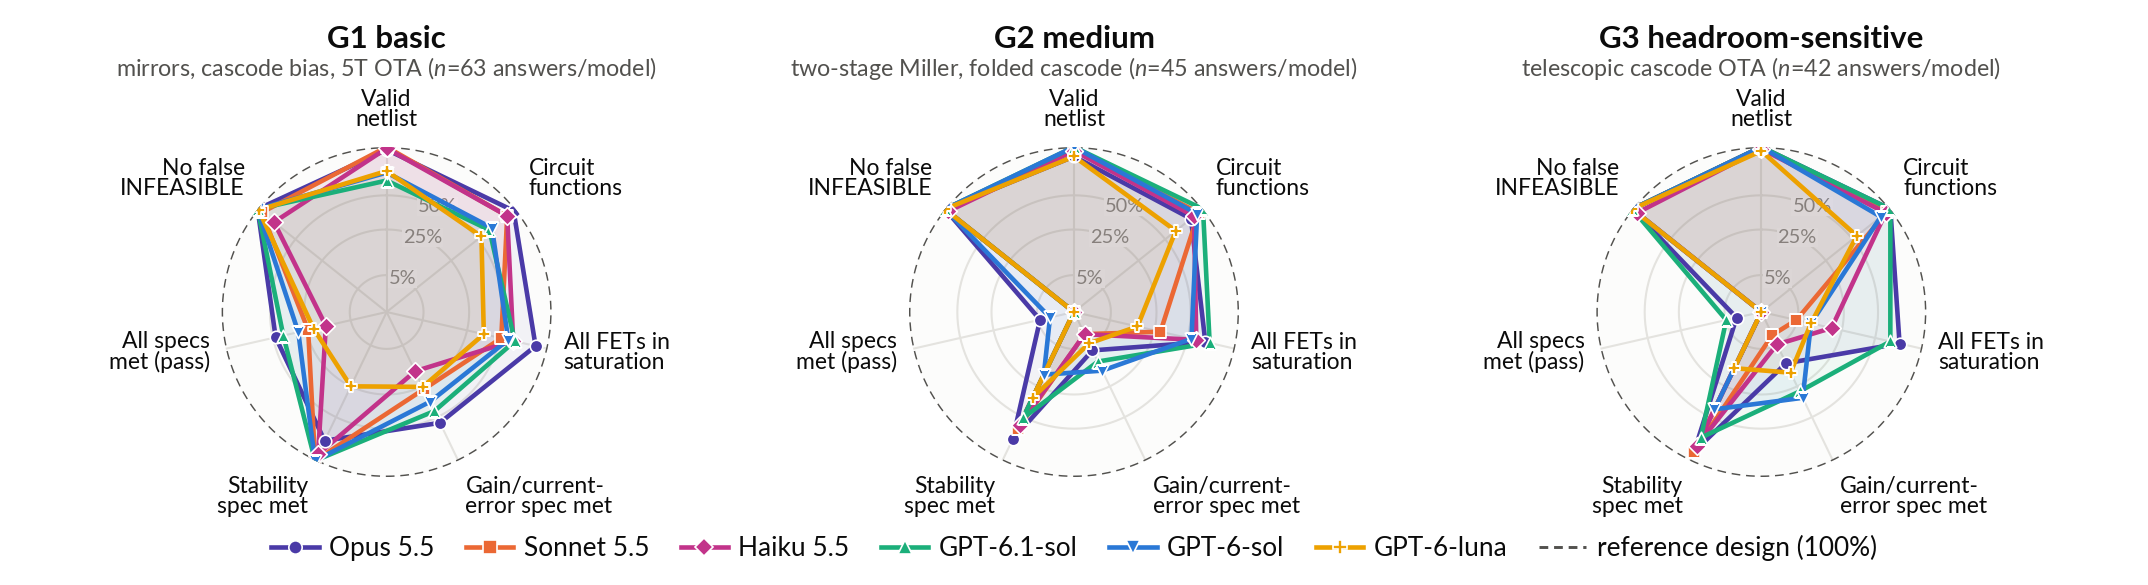
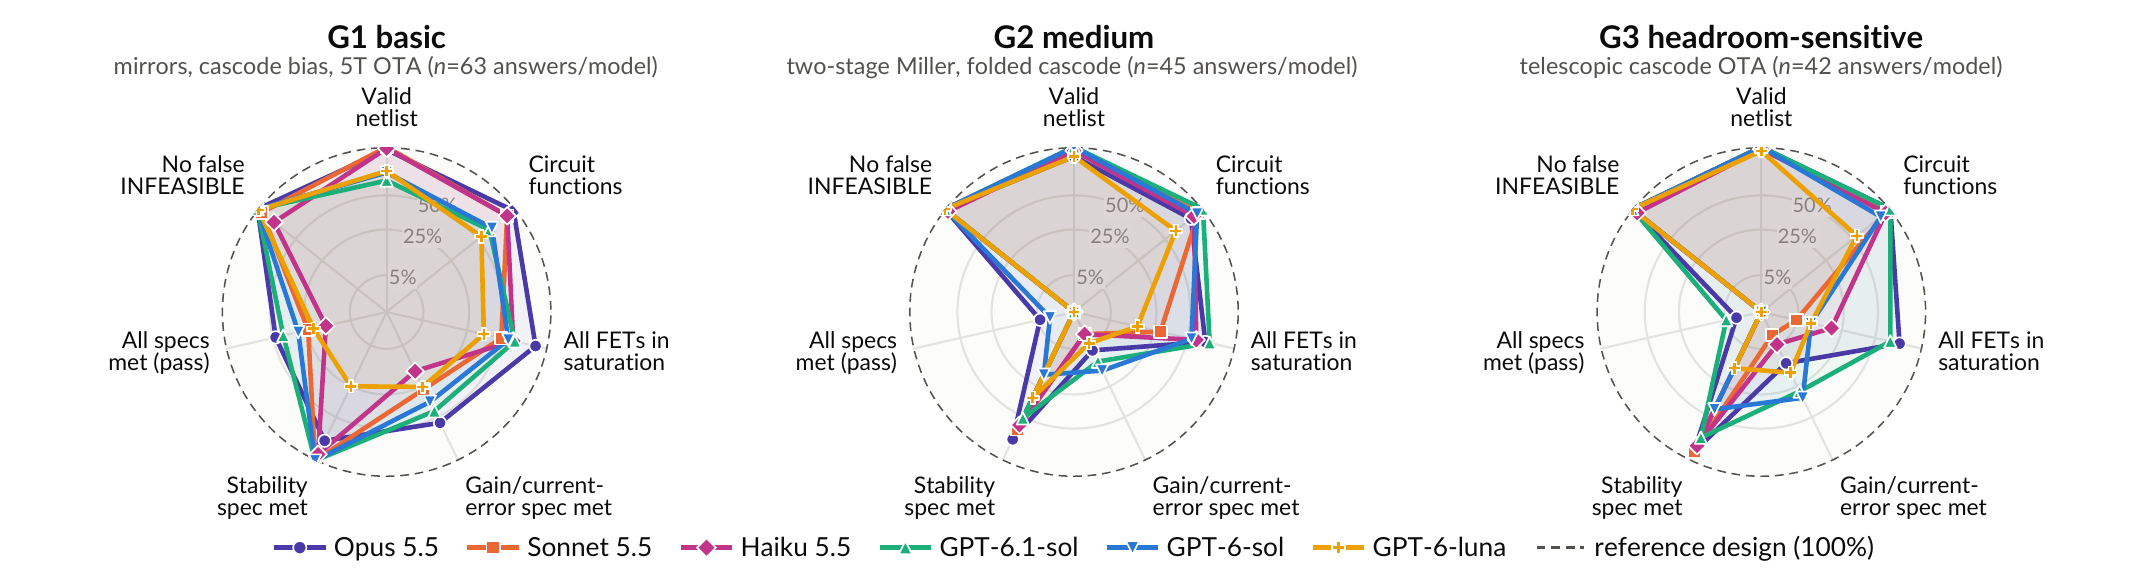
Project page: benchmark tiers, main results table, key findings and figures from the paper

diff --git a/docs/index.html b/docs/index.html
@@ -24,6 +24,26 @@
     .publication-title .title-sub { display: inline-block; font-weight: 400; font-size: 2rem; line-height: 1.3; }
         .figure-caption { margin-top: 1rem; }
     .ud-logo { height: 56px; width: auto; }
+    .apb-block { margin-top: 3rem; }
+    .apb-caption { margin-top: 0.75rem; font-size: 0.95rem; text-align: justify; }
+    .apb-caption.has-text-centered { text-align: center; }
+    .apb-fig-half { width: 70%; display: block; margin: 0.5rem auto 0; }
+    .apb-table { margin: 0 auto; font-size: 0.85rem; font-variant-numeric: tabular-nums; }
+    .apb-table th, .apb-table td { text-align: center; vertical-align: middle; white-space: nowrap; }
+    .apb-table.tiers td:nth-child(2), .apb-table.tiers td:nth-child(3), .apb-table.tiers th:nth-child(2), .apb-table.tiers th:nth-child(3) { text-align: left; }
+    .apb-table.main th { font-size: 0.8rem; }
+    .apb-table.main th.grp { border-bottom: 1px solid #dbdbdb; }
+    .apb-table.main th.sep, .apb-table.main tr td:nth-child(5), .apb-table.main tr td:nth-child(8), .apb-table.main tr td:nth-child(11), .apb-table.main tr td:nth-child(13) { border-right: 1px solid #dbdbdb; }
+    .apb-table td.mdl { text-align: left; }
+    .apb-table tr.vendor td { text-align: left; background: #fafafa; font-size: 0.8rem; padding-top: 0.35rem; }
+    .apb-table tr.base td { color: #7a7a7a; }
+    .apb-table td.best, .hl.best { background: #a9e5b1; }
+    .apb-table td.second, .hl.second { background: #dcf3df; }
+    .hl { padding: 0 0.3rem; border-radius: 3px; }
+    .sq { display: inline-block; width: 9px; height: 9px; margin-right: 6px; border-radius: 2px; vertical-align: 0; }
+    .tier { display: inline-block; color: #fff; font-weight: 600; font-size: 0.8rem; padding: 0.05rem 0.45rem; border-radius: 4px; }
+    .tier.t1 { background: #1BAF7A; } .tier.t2 { background: #4F8FDB; } .tier.t3 { background: #4A3AA7; } .tier.t4 { background: #E8590C; }
+    @media (max-width: 768px) { .apb-fig-half { width: 100%; } }
   </style>
 </head>
 <body>
@@ -160,38 +180,153 @@
 
 <section class="section">
   <div class="container is-max-desktop">
-    <!-- Results. -->
+    <!-- Benchmark. -->
     <div class="columns is-centered has-text-centered">
       <div class="column is-full-width">
-        <h2 class="title is-3">Results</h2>
+        <h2 class="title is-3">Benchmark</h2>
+        <div class="content has-text-justified">
+          <p>
+            Ten circuits are ported in up to four tiers that add one difficulty at a time, so a failure can be traced
+            to its cause. The circuits form three grades: G1 basic (current mirrors, cascode bias, 5T OTA), G2 medium
+            (two-stage Miller and folded-cascode OTAs) and G3 headroom-sensitive (telescopic cascode OTAs).
+          </p>
+        </div>
+        <div class="table-container">
+          <table class="table is-narrow is-fullwidth apb-table tiers">
+            <thead><tr><th>Tier</th><th>V<sub>DD</sub>, specification</th><th>Correct answer</th><th>Tasks</th></tr></thead>
+            <tbody>
+              <tr><td><span class="tier t1">T1</span></td><td>1.8&nbsp;V, from simulated source</td><td>Porting meets all specification</td><td>10</td></tr>
+              <tr><td><span class="tier t2">T2</span></td><td>1.2&nbsp;V, voltage limits &times;1.2/1.8</td><td>Porting meets all specification</td><td>12</td></tr>
+              <tr><td><span class="tier t3">T3</span></td><td>1.2&nbsp;V, harder (reference exists)</td><td>Porting meets all specification</td><td>28</td></tr>
+              <tr><td><span class="tier t4">T4</span></td><td>1.2&nbsp;V, beyond a physical bound</td><td>INFEASIBLE + best effort</td><td>4</td></tr>
+            </tbody>
+          </table>
+        </div>
+        <p class="apb-caption">Task tiers, all target SKY130 1.8&nbsp;V low-threshold-voltage (LVT) devices, 54 tasks in total.</p>
+      </div>
+    </div>
+    <!--/ Benchmark. -->
+
+    <!-- Results at a glance. -->
+    <div class="columns is-centered has-text-centered apb-block">
+      <div class="column is-full-width">
+        <h2 class="title is-3">Results at a Glance</h2>
         <img src="./assets/readme/leaderboard.svg" width="100%"
              alt="Pass rate at low and medium reasoning effort, and feasible tasks solved within three tries by resampling or with simulation feedback.">
-        <div class="content has-text-justified figure-caption">
-          <p>
-            Left: share of answers that meet every specification on the 50 feasible tasks, with one try, at low
-            and medium reasoning effort. Right: share of the 50 feasible tasks solved within three tries at medium
-            effort, by the best of 3 samples or with simulation feedback.
-          </p>
-        </div>
+        <p class="apb-caption">
+          Left: share of answers that meet every specification on the 50 feasible tasks, with one try, at low and
+          medium reasoning effort. Right: share of the 50 feasible tasks solved within three tries at medium effort,
+          by the best of 3 samples or with simulation feedback.
+        </p>
       </div>
     </div>
-    <!--/ Results. -->
+    <!--/ Results at a glance. -->
 
-    <!-- Capability per grade. -->
-    <div class="columns is-centered has-text-centered" style="margin-top: 3rem;">
+    <!-- Main results. -->
+    <div class="columns is-centered has-text-centered apb-block">
       <div class="column is-full-width">
-        <h2 class="title is-3">Capability per Circuit Grade</h2>
+        <h2 class="title is-3">Main Results</h2>
+        <div class="table-container">
+          <table class="table is-narrow apb-table main">
+            <thead>
+              <tr><th></th><th></th><th colspan="3" class="grp">T1</th><th colspan="3" class="grp">T2</th><th colspan="3" class="grp">T3</th><th colspan="2" class="grp">T4 / INFEASIBLE</th><th colspan="2" class="grp">Solved in 3 tries</th></tr>
+              <tr><th>Model</th><th>Reasoning<br>effort</th>
+                <th>G1 <small>(5)</small></th><th>G2 <small>(3)</small></th><th class="sep">G3 <small>(2)</small></th>
+                <th>G1 <small>(5)</small></th><th>G2 <small>(3)</small></th><th class="sep">G3 <small>(4)</small></th>
+                <th>G1 <small>(11)</small></th><th>G2 <small>(9)</small></th><th class="sep">G3 <small>(8)</small></th>
+                <th>Flagged <small>(4 tasks)</small> &uarr;</th><th class="sep">False alarms &darr;</th>
+                <th>Re&shy;sampling</th><th>Simulation feedback</th></tr>
+            </thead>
+            <tbody>
+<tr class="base"><td><i>Naive port</i></td><td>–</td><td>20%</td><td>0</td><td>0</td><td>20%</td><td>0</td><td>0</td><td>0</td><td>0</td><td>0</td><td>–</td><td>–</td><td>–</td><td>–</td></tr>
+<tr class="vendor"><td colspan="15"><i>OpenAI</i></td></tr>
+<tr><td class="mdl"><span class="sq" style="background:#EDA100"></span>GPT-6-luna</td><td>low</td><td>40%</td><td>0</td><td>0</td><td>40%</td><td>0</td><td>0</td><td>0</td><td>0</td><td>0</td><td>6/12</td><td>30/150</td><td>–</td><td>–</td></tr>
+<tr><td class="mdl"></td><td>medium</td><td>40%</td><td>0</td><td>0</td><td>47%</td><td>0</td><td>0</td><td>0</td><td>0</td><td>0</td><td>2/12</td><td class="second">1/150</td><td>12%</td><td>12%</td></tr>
+<tr><td class="mdl"><span class="sq" style="background:#2A78D6"></span>GPT-6-sol</td><td>low</td><td>53%</td><td class="second">11%</td><td>0</td><td>47%</td><td>0</td><td>0</td><td>0</td><td>0</td><td>0</td><td>6/12</td><td class="second">1/150</td><td>–</td><td>–</td></tr>
+<tr><td class="mdl"></td><td>medium</td><td>73%</td><td class="second">11%</td><td>0</td><td>53%</td><td>0</td><td>0</td><td>0</td><td>0</td><td>0</td><td>6/12</td><td class="best">0/150</td><td>20%</td><td>34%</td></tr>
+<tr><td class="mdl"><span class="sq" style="background:#1BAF7A"></span>GPT-6.1-sol</td><td>low</td><td>67%</td><td class="second">11%</td><td>0</td><td>33%</td><td>0</td><td>0</td><td>6%</td><td>0</td><td>0</td><td>1/12</td><td class="best">0/150</td><td>–</td><td>–</td></tr>
+<tr><td class="mdl"></td><td>medium</td><td>73%</td><td>0</td><td class="best">17%</td><td>53%</td><td>0</td><td class="best">8%</td><td class="best">21%</td><td>0</td><td>0</td><td>2/12</td><td class="best">0/150</td><td class="second">30%</td><td class="best">56%</td></tr>
+<tr class="vendor"><td colspan="15"><i>Anthropic</i></td></tr>
+<tr><td class="mdl"><span class="sq" style="background:#C2338A"></span>Haiku 5.5</td><td>low</td><td>40%</td><td>0</td><td>0</td><td>27%</td><td>0</td><td>0</td><td>0</td><td>0</td><td>0</td><td>9/12</td><td>20/150</td><td>–</td><td>–</td></tr>
+<tr><td class="mdl"></td><td>medium</td><td>27%</td><td>0</td><td>0</td><td>33%</td><td>0</td><td>0</td><td>0</td><td>0</td><td>0</td><td>9/12</td><td>20/150</td><td>8%</td><td>18%</td></tr>
+<tr><td class="mdl"><span class="sq" style="background:#EB6834"></span>Sonnet 5.5</td><td>low</td><td>60%</td><td>0</td><td>0</td><td>40%</td><td>0</td><td>0</td><td>0</td><td>0</td><td>0</td><td>6/12</td><td>3/150</td><td>–</td><td>–</td></tr>
+<tr><td class="mdl"></td><td>medium</td><td>60%</td><td>0</td><td>0</td><td>40%</td><td>0</td><td>0</td><td>0</td><td>0</td><td>0</td><td>5/12</td><td>4/150</td><td>12%</td><td>26%</td></tr>
+<tr><td class="mdl"><span class="sq" style="background:#4A3AA7"></span>Opus 5.5</td><td>low</td><td class="second">87%</td><td>0</td><td>0</td><td class="second">60%</td><td>0</td><td>0</td><td>0</td><td>0</td><td>0</td><td class="best">11/12</td><td>2/150</td><td>–</td><td>–</td></tr>
+<tr><td class="mdl"></td><td>medium</td><td class="best">93%</td><td class="best">22%</td><td>0</td><td class="best">73%</td><td>0</td><td class="best">8%</td><td class="second">15%</td><td>0</td><td>0</td><td class="second">10/12</td><td class="best">0/150</td><td class="best">32%</td><td class="second">52%</td></tr>
+<tr class="base"><td><i>Reference</i></td><td>–</td><td>100%</td><td>100%</td><td>100%</td><td>100%</td><td>100%</td><td>100%</td><td>100%</td><td>100%</td><td>100%</td><td>–</td><td>–</td><td>–</td><td>–</td></tr>
+            </tbody>
+          </table>
+        </div>
+        <p class="apb-caption">
+          Zero-shot pass rate per tier and grade. Three samples per task, with task counts in parentheses.
+          INFEASIBLE: answers declared infeasible for T4 tasks (correct, the higher the better) and feasible tasks
+          (false alarms, the lower the better). Solved in 3 tries: rates of feasible tasks solved at medium effort by
+          resampling (best of 3) or simulation feedback (up to 3 attempts).
+          <span class="hl best">Best</span> and <span class="hl second">second-best</span> values in each column are highlighted.
+        </p>
+      </div>
+    </div>
+    <!--/ Main results. -->
+
+    <!-- Key findings. -->
+    <div class="columns is-centered apb-block">
+      <div class="column is-full-width">
+        <h2 class="title is-3 has-text-centered">Key Findings</h2>
+        <div class="content has-text-justified">
+          <h3 class="title is-5">RQ1. Can LLMs port a working design?</h3>
+          <p>
+            Partly, mainly for simple circuits. A naive port that only swaps device names passes 2 of the 54 tasks, and
+            every LLM beats it. The best model, Opus&nbsp;5.5, passes 93% of T1 answers on G1 circuits, but does not
+            exceed 22% on G2 or G3, even at the original supply.
+          </p>
+          <h3 class="title is-5">RQ2. What breaks when the headroom shrinks?</h3>
+          <p>
+            Lowering the supply from 1.8&nbsp;V (T1) to 1.2&nbsp;V (T2) cuts the pass rate of the two strongest models
+            from 53% to 33% for Opus&nbsp;5.5 and from 40% to 25% for GPT-6.1-sol, and the harder T3 tasks are rarely
+            met. On the telescopic cascode OTA at 1.2&nbsp;V, Sonnet&nbsp;5.5 re-sized the stack and reached about
+            0.23&nbsp;V of swing with three transistors in triode, while Opus&nbsp;5.5 noted that the stack cannot reach
+            the limit with all transistors in saturation, replaced it with a two-stage Miller OTA, and met every limit.
+            A correct port here requires a topology change in addition to re-sizing.
+          </p>
+          <h3 class="title is-5">RQ3. Do LLMs recognize infeasible specifications?</h3>
+          <p>
+            Opus&nbsp;5.5 flags 10&ndash;11 of the 12 infeasible specifications with almost no false alarms. Haiku&nbsp;5.5
+            and GPT-6-luna at low effort flag often but also raise false alarms on feasible tasks. More reasoning effort
+            does not improve infeasibility detection, and GPT-6.1-sol, the strongest GPT model, ports well but rarely
+            flags an infeasible specification, often returning designs that silently miss an unreachable limit.
+          </p>
+          <h3 class="title is-5">RQ4. More reasoning or simulation feedback?</h3>
+          <p>
+            More reasoning helps only the strongest models while increasing token cost; the others gain little or
+            nothing despite using up to 4.6&times; more tokens. Simulation feedback helps all models: for the two
+            strongest, three feedback attempts solve over half of the feasible tasks, against about a third for the
+            best of three samples, and raise solved T3 tasks from 2 to 13 (GPT-6.1-sol) and from 2 to 12 (Opus&nbsp;5.5).
+          </p>
+        </div>
+        <img src="./static/images/levers.png" class="apb-fig-half"
+             alt="Pooled T1-T3 pass rate versus mean output tokens per answer, from low to medium reasoning effort, per model.">
+        <p class="apb-caption has-text-centered">
+          Pooled T1&ndash;T3 pass rate versus mean output tokens per answer, from low (open marker) to medium (filled)
+          reasoning effort.
+        </p>
+        <div class="content has-text-justified" style="margin-top: 2rem;">
+          <h3 class="title is-5">RQ5. Where in the design flow do designs fail?</h3>
+          <p>
+            The radar charts plot the design-flow steps clockwise. On G1 circuits, the shapes narrow at saturation and
+            current error. On G2 circuits, the shapes stay wide except on gain, met by at most 16% of answers against up
+            to 73% for stability, suggesting a gain&ndash;stability trade-off. On G3 circuits, the saturation axis
+            separates the models, and even designs with all transistors in saturation lose gain.
+          </p>
+        </div>
         <img src="./static/images/grades_radar.png" width="100%"
              alt="Radar charts for grades G1, G2 and G3: valid netlist, circuit functions, all FETs in saturation, gain/current-error spec met, stability spec met, all specs met, and no false INFEASIBLE, per model.">
-        <div class="content has-text-justified figure-caption">
-          <p>
-            Capability per circuit grade at medium effort (zero-shot, T1&ndash;T3; 63/45/42 answers per model),
-            with each axis scored independently on a square-root radial scale.
-          </p>
-        </div>
+        <p class="apb-caption has-text-centered">
+          Capability per circuit grade (zero-shot, medium effort, T1&ndash;T3); each axis is scored independently on a
+          square-root radial scale.
+        </p>
       </div>
     </div>
-    <!--/ Capability per grade. -->
+    <!--/ Key findings. -->
   </div>
 </section>
 
